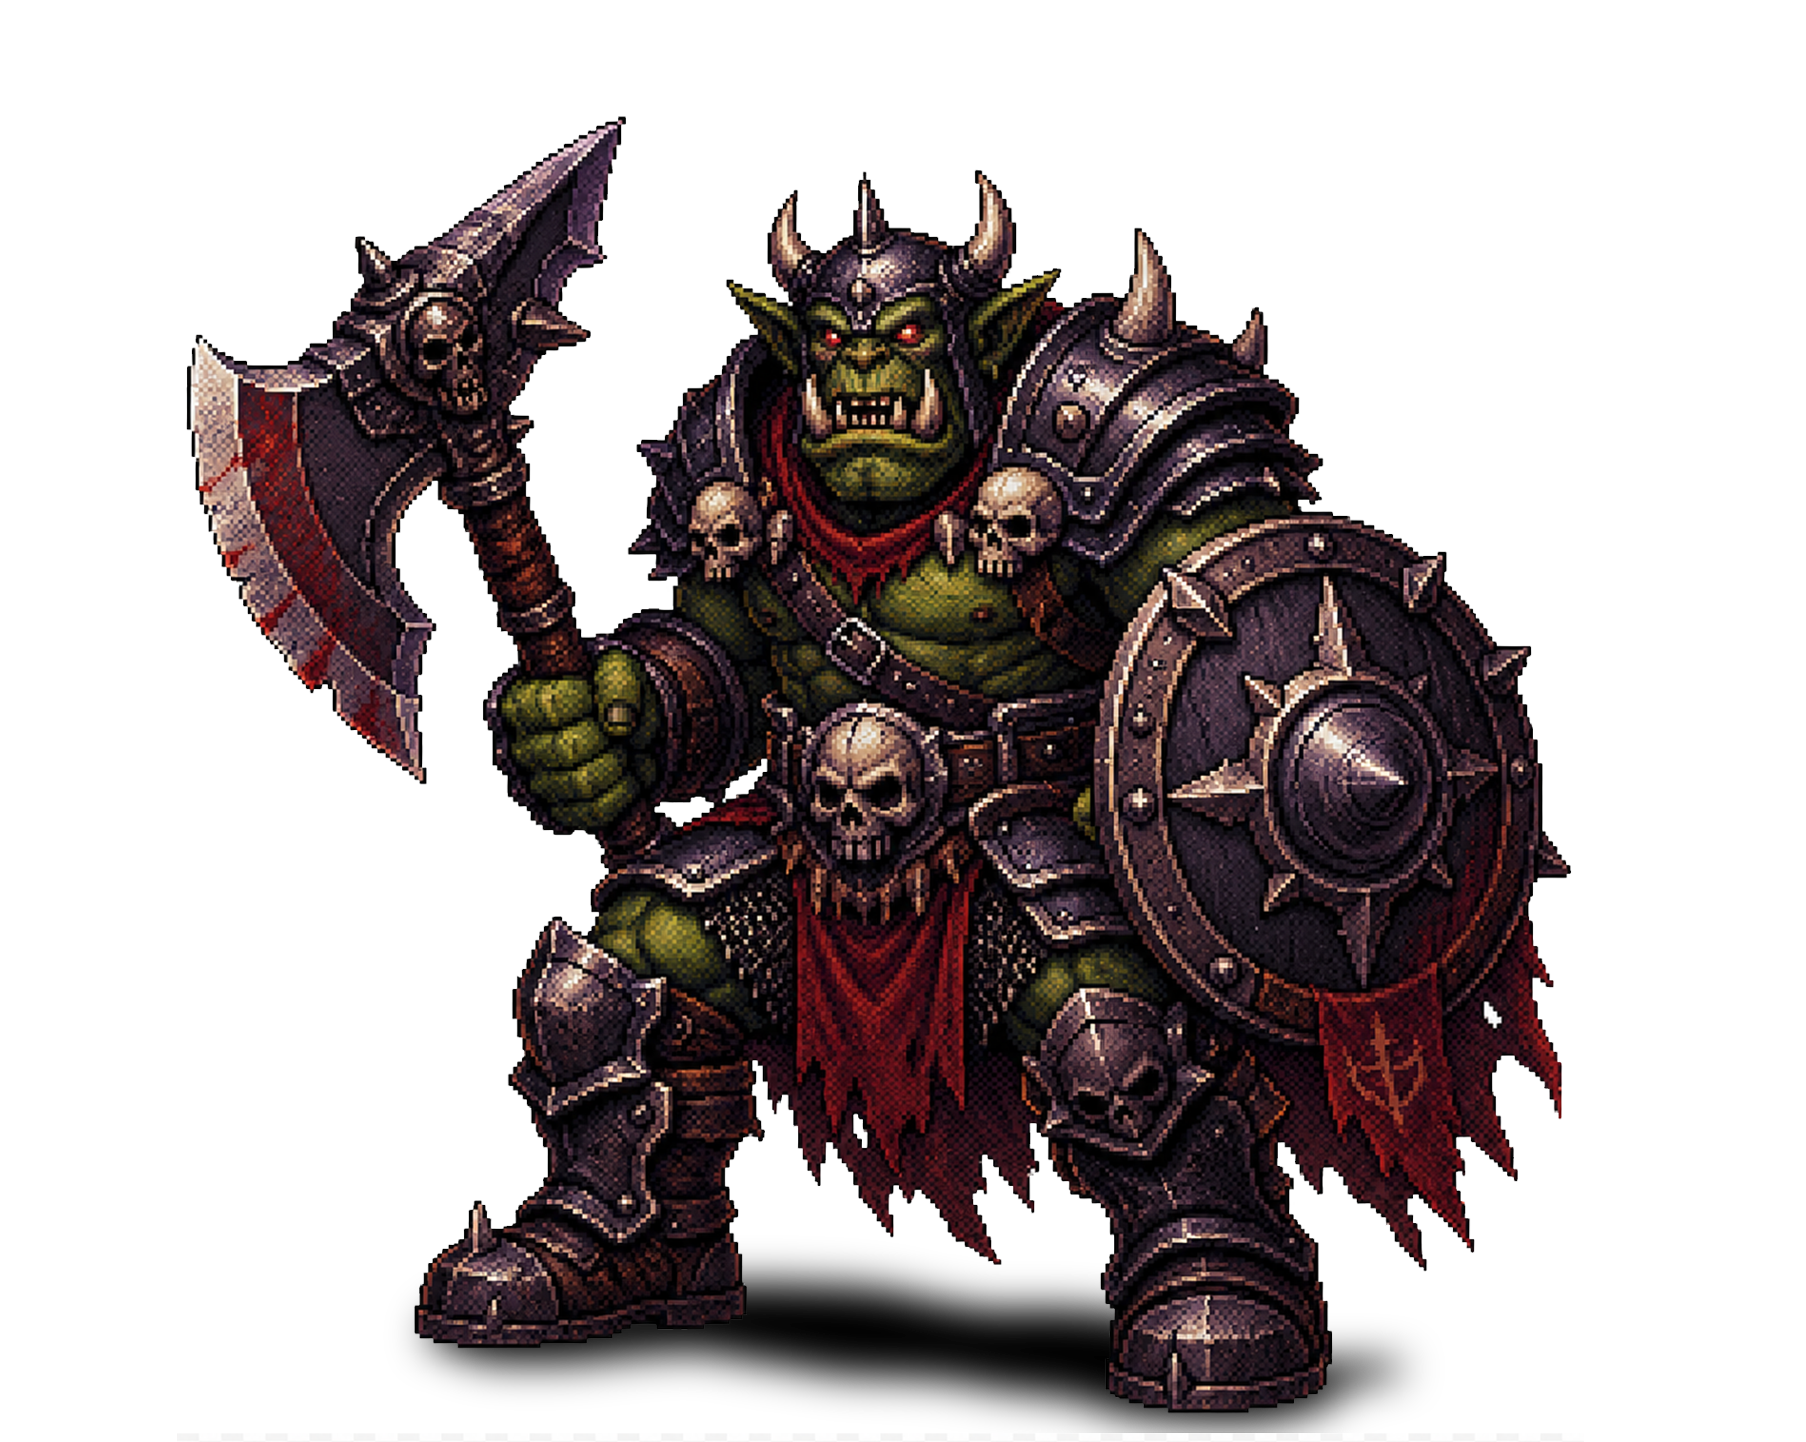
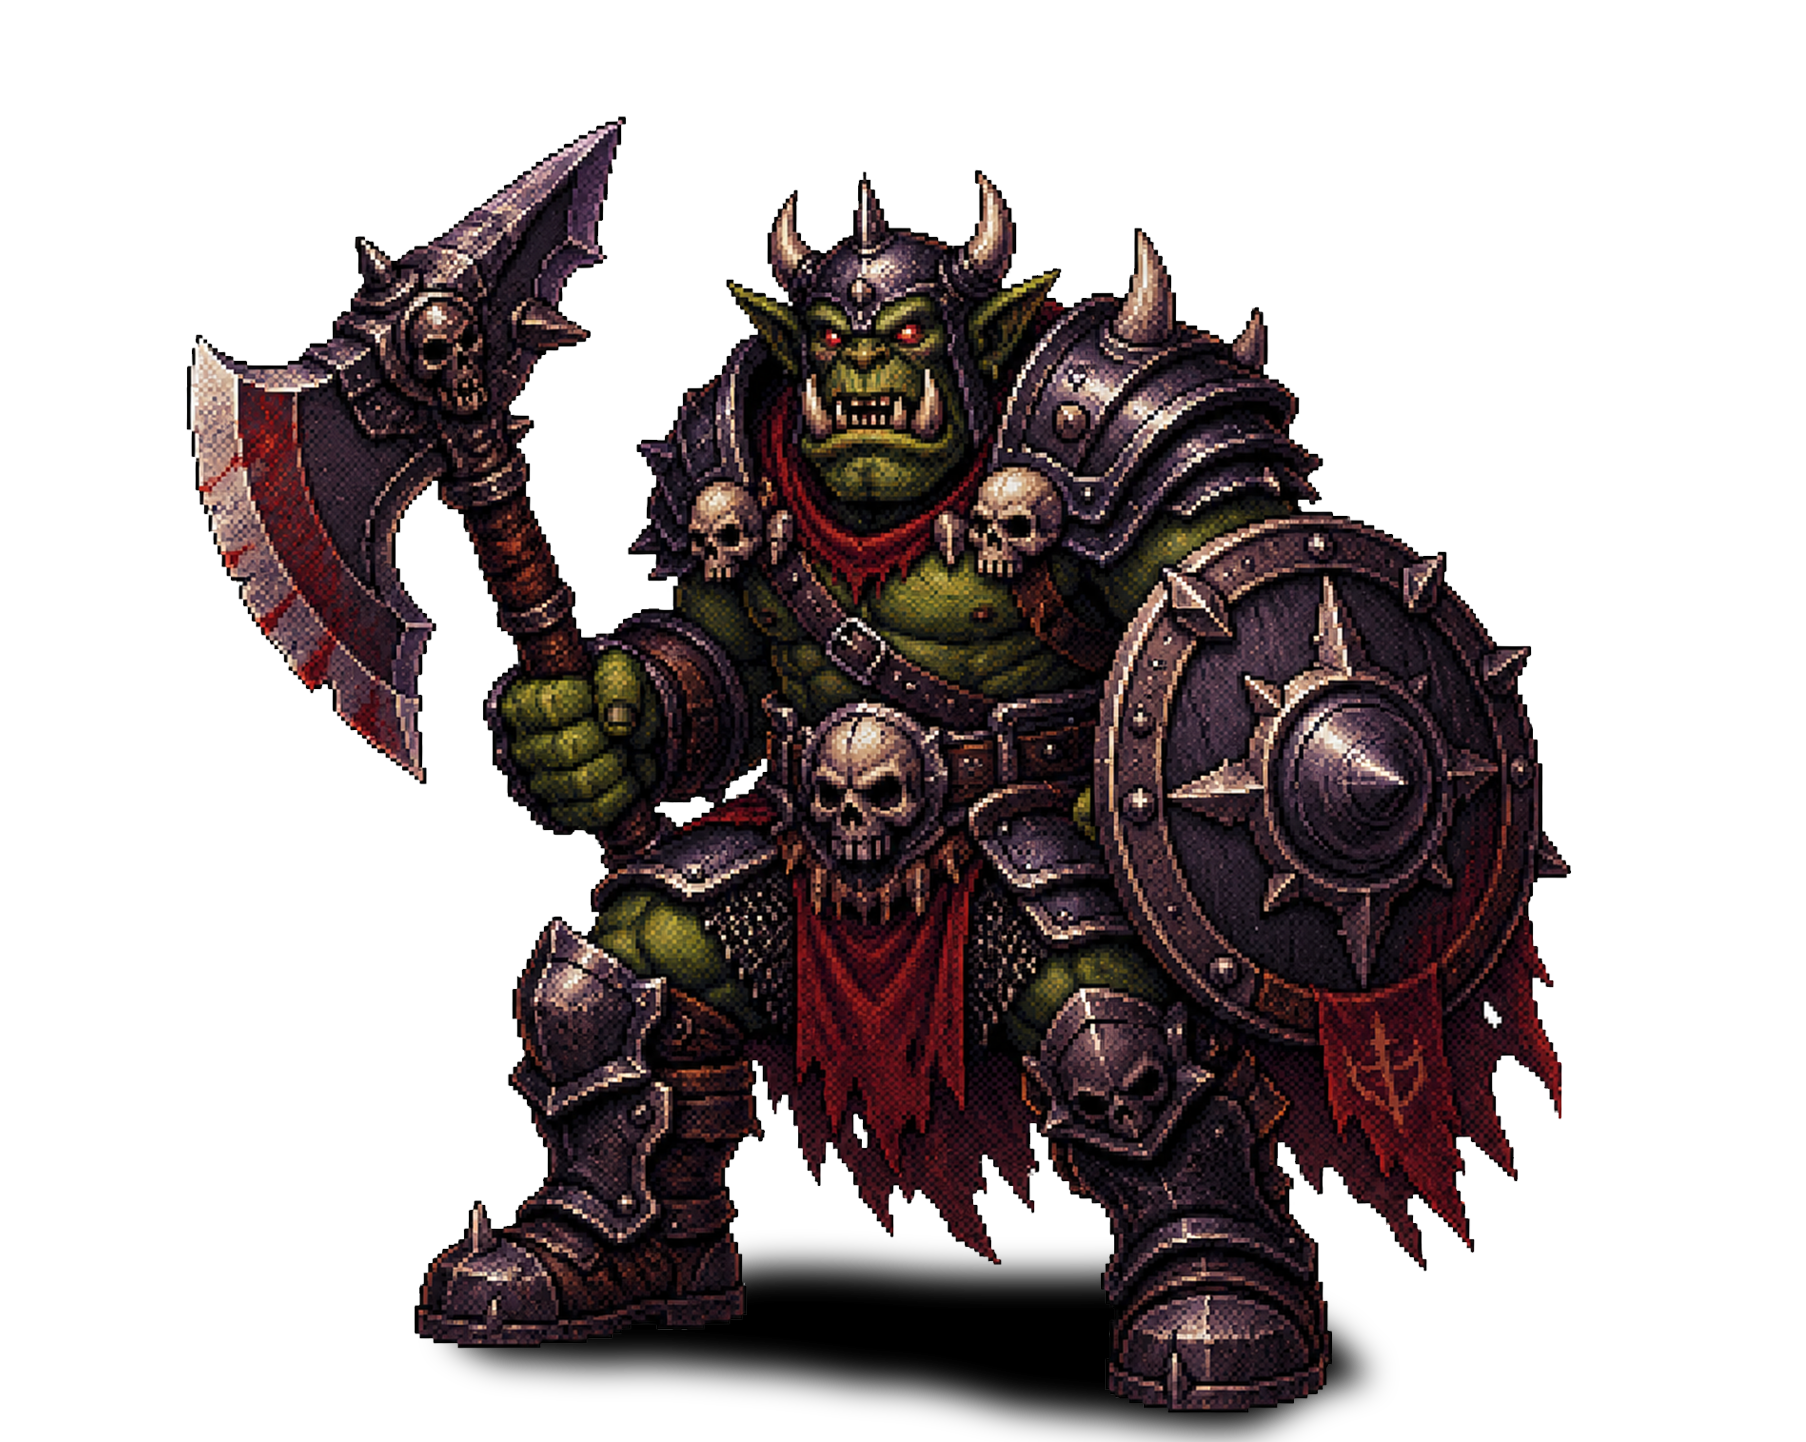
chore - 이미지 추가 및 세세한 수정

Changed region(s): [[0.3101, 0.8426, 0.8062, 1.0], [0.2171, 0.905, 0.2791, 0.9674]]

diff --git a/D2DTextRoguelike/D2DApp.cpp b/D2DTextRoguelike/D2DApp.cpp
@@ -72,6 +72,10 @@ bool D2DApp::Initialize()
         { L"Slime",    L"./Resource/Slime.png" },
         { L"MOB_SLIME", L"./Resource/Slime.png" },
         { L"MOB_GOBLIN", L"./Resource/Goblin.png" },
+        { L"MOB_GOLEM", L"./Resource/Golem.png" },
+        { L"MOB_ASSASSIN", L"./Resource/Assassin.png" },
+        { L"MOB_WAR_MACHINE", L"./Resource/WarMachine.png" },
+        { L"MOB_VOID_KNIGHT", L"./Resource/VoidKnight.png" },
         { L"MID_ORC_1", L"./Resource/MidOrc1.png" },
         { L"MID_ORC_2", L"./Resource/MidOrc2.png" },
         { L"BOSS_DRAGON", L"./Resource/Dragon.png" },